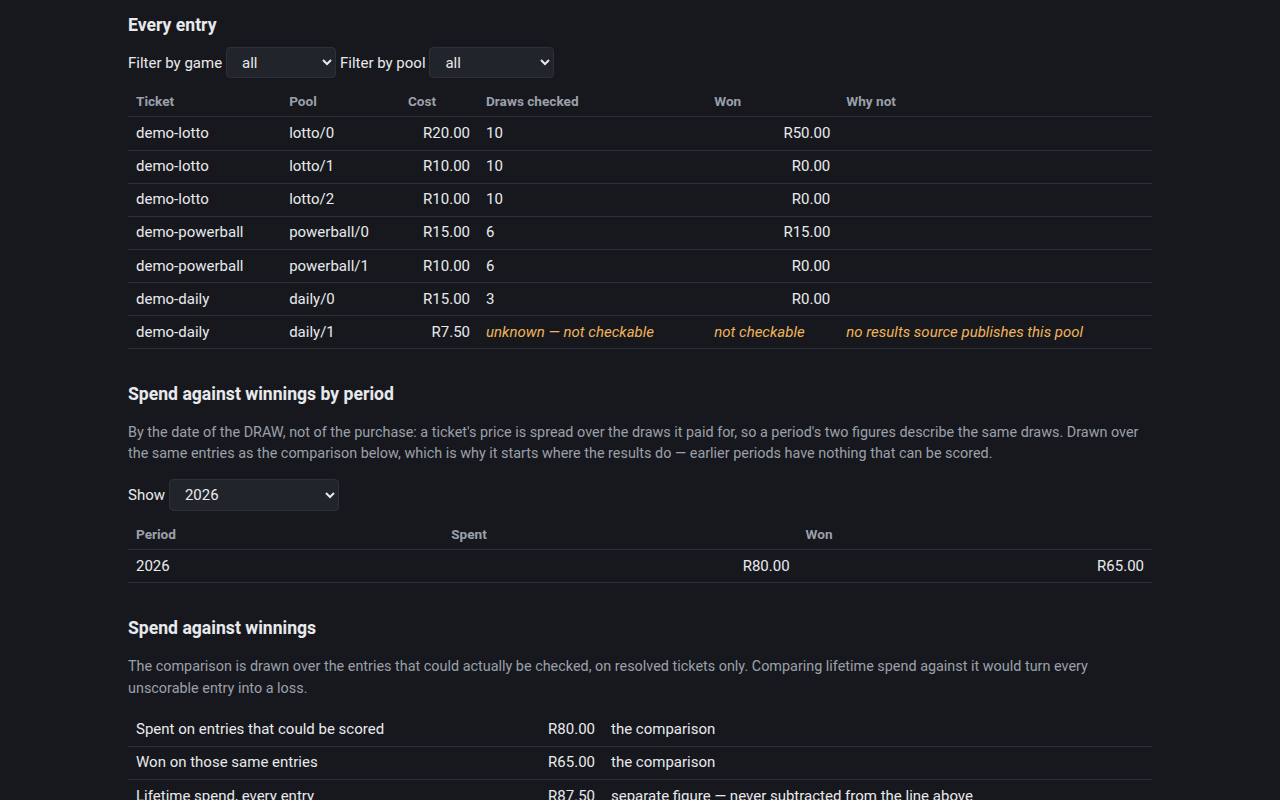
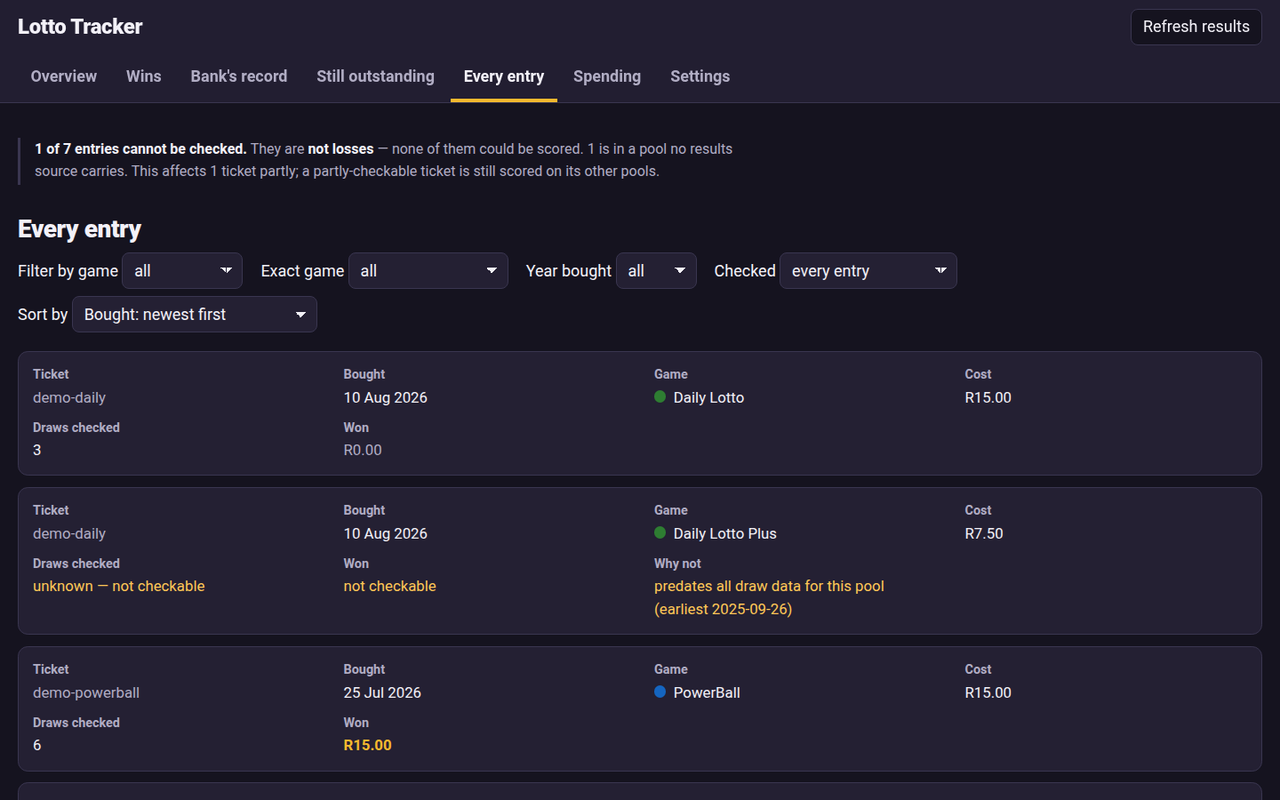
content: DeFragR 0.2.0, LottoTracker 0.2.0, Rolodex 2.1.0, Album Builder on OBS
From the project sessions' messages of 2026-11-18 (msgs 2218, 2220,
2224, 2226).

- DeFragR: report map, Refresh drives, safer reports, languages; the
  held-back Hebrew screenshot goes on now that Hebrew ships.
- LottoTracker: first AppImage download, with its limits (glibc 2.44+,
  Linux only, Android only, Standard Bank, Add my bank form) and 0.2.0's
  changes. Overview, Wins, Every entry and Settings retaken from
  tools/demo_page.py at v0.2.0. The Bank's record tab has no demo
  payments, so it has no shot yet.
- Rolodex: assetMatch keeps the plain Linux file on the button and lists
  the Flatpak under it; Flatpak install line, Windows self-update,
  three languages.
- Album Builder: openSUSE Tumbleweed package via its download.opensuse.org
  repository. The RPM pulls in no speech libraries, so lyric sync is
  still described as source-only.

write-doc: short path; check-doc.py on the four About pages,
local-CI.sh passed, built pages' download links read.

diff --git a/src/about/lotto-tracker.md b/src/about/lotto-tracker.md
@@ -19,7 +19,12 @@ own public feed. And the SMS wording is Standard Bank's, in both the version use
 before the June 2026 operator handover and the version used after it.
 
 If you bank elsewhere, everything except the message parser works unchanged, and
-teaching it your bank's wording is the only work.
+teaching it your bank's wording is the only work. You can send in sample messages
+through the "Add my bank" form on the project's
+[issue tracker](https://github.com/milnet01/LottoTracker/issues/new/choose).
+
+**It needs an Android phone.** iPhones are not supported: the app collects the
+messages by USB or KDE Connect, and iOS lets no other app read messages.
 
 ## What it does
 
@@ -73,12 +78,21 @@ results pages.
 
 ## Where it stands
 
-In beta, on Linux, with no account, no API key and nothing paid. The first release has no
-download file: you run it from a copy of the source, which needs Python 3.9 or newer and a
-couple of standard tools from your distribution to talk to the phone; the
-repository's Setup section lists them. A packaged Linux version is planned. The
-tray icon needs one extra library — and it is the only thing that does, so
-everything works without it.
+In beta, with no account, no API key and nothing paid. It now comes as one Linux
+file you download and run, an AppImage.
+
+That file needs a recent Linux: version 2.44 or newer of the GNU C library, which
+`ldd --version` shows. It will not start on many older systems yet; a build that
+runs on more of them is planned. It is Linux only for now. A Windows version is
+planned, not started.
+
+The newest version gives the page a new look. It opens on when to buy next, with
+every running ticket drawn as a lottery slip. The tray checks for new results by
+itself at 22:00 each evening and tells you only when you have won. A Bank's record
+tab shows where the bank's payments differ from what the app worked out, and why.
+The Every entry table can be filtered by year and by whether an entry was checked.
+Daily Lotto Plus tickets are checked too. And the app tells you when no lottery SMS
+has arrived for 14 days, in case your phone has stopped reaching the computer.
 
 LottoTracker is an independent app. It is not affiliated with or endorsed by the
 South African National Lottery, its operator, or Standard Bank. Always check results

diff --git a/src/about/defragr.md b/src/about/defragr.md
@@ -45,19 +45,31 @@ up extra space.
 
 ## Where it stands now
 
-The first version gives a report and changes nothing. It is released
-as source code only, with no installable package yet. To try it now,
-you build it from that source code.
+So far DeFragR gives a report and changes nothing. It is released as
+source code only, with no installable package yet. To try it now, you
+build it from that source code.
 
 What works in it:
 
 - **Your drives, listed.** Each one offers "View report" and "Defrag
   now". A choice a drive cannot take is greyed out, with the reason in
-  plain words.
+  plain words. A "Refresh drives" button lists them again.
 - **A report that touches nothing.** It shows how fragmented the drive
   is and lists every fragmented file, worst first.
+- **A map of the drive.** The report draws the drive as a grid of
+  squares: whole files solid, fragmented files striped, folders and the
+  filesystem dotted, and free space as an outline. A key sits above it.
 - **Progress you can see.** A percentage bar shows how far a report has
   got.
+- **Safe reports.** A report refuses a folder that is not a real drive.
+  It never opens a device or wakes a network drive, and another user on
+  the same computer cannot stall it.
+- **Your language.** The window follows your desktop's language in
+  Hebrew, German, Italian, Greek, Spanish, Portuguese, Chinese,
+  Japanese, Russian, Polish, French and Ukrainian, and shows English
+  otherwise. These translations are AI drafts not yet checked by
+  native speakers, and corrections are welcome. A few of the newest
+  messages still show in English.
 
 Defragging itself comes in a later version, and so does an installable
 package.

diff --git a/src/about/rolodex.md b/src/about/rolodex.md
@@ -62,9 +62,18 @@ Apple Silicon macOS. Nothing else to install. Neither the Windows nor the macOS
 build is signed yet, so each will query it the first time — *More info → Run
 anyway* on Windows, right-click → *Open* on a Mac.
 
-On Linux and macOS, Rolodex can update itself. It only installs an update that
-carries the project's own signature, and refuses anything else. On Windows,
-download the new version by hand for now.
+On Linux there is also a Flatpak, which installs on any distribution with
+`flatpak install --user rolodex.flatpak`. It is not on Flathub. It carries a
+description and screenshots, so GNOME Software and KDE Discover show Rolodex
+properly.
+
+Rolodex can update itself on Linux, macOS and 64-bit Windows: "Update Now"
+installs the new version and reopens it. It only installs an update that carries
+the project's own signature, and refuses anything else. On Windows, a copy older
+than 2.1.0 cannot do this, so download 2.1.0 by hand once.
+
+It follows your system's language in German, French and Spanish, and shows
+English otherwise.
 
 Your vault is saved in your personal data folder, not next to the download, so
 moving or replacing the app never touches it.

diff --git a/src/about/album-builder.md b/src/about/album-builder.md
@@ -58,9 +58,14 @@ On Linux it is a single AppImage — download, make it executable, run. On Windo
 it is a zip: unpack it and double-click `AlbumBuilder.exe`. Both bundle everything
 they need, including the PDF machinery. There is no Python to install.
 
+On openSUSE Tumbleweed you can install it as a normal package instead, and it
+updates with the rest of your system. Add Album Builder's
+[repository on the openSUSE Build Service](https://download.opensuse.org/repositories/home:/milnet:/album-builder/),
+then install the `album-builder` package.
+
 Two things worth knowing. **Windows will show a SmartScreen warning** the first
 time, because the build is not signed; click *More info* → *Run anyway*. And the
-**lyric-syncing feature is not in either download** — the speech-recognition
+**lyric-syncing feature is in none of these** — the speech-recognition
 libraries behind it run to hundreds of megabytes, so it stays an optional extra
 you add when installing from source. Everything else works out of the box.
 

diff --git a/CHANGELOG.md b/CHANGELOG.md
@@ -9,6 +9,13 @@ so dated sections stand in for versions. Planned work lives in
 
 ## [Unreleased]
 
+### Changed
+
+- DeFragR's page covers 0.2.0: a map of the drive in each report, a Refresh drives button, safer reports, and a window in thirteen more languages. It adds a Hebrew screenshot.
+- LottoTracker's page offers its first download, a Linux AppImage, and says what it needs: a recent Linux, an Android phone and, for now, Standard Bank. It covers 0.2.0's new look, nightly results check and Bank's record tab, with four new screenshots.
+- Rolodex's page covers 2.1.0: a Flatpak download, updates from inside the app on Windows, and German, French and Spanish.
+- Album Builder's page says it installs as a package on openSUSE Tumbleweed.
+
 ## 2026-11-18
 
 ### Added
